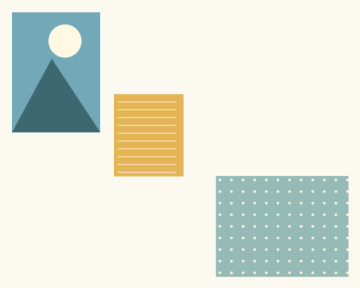
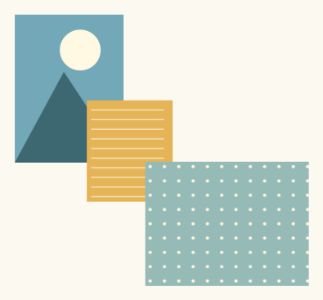
Align postmark and diagonal lesson schematics

Changed region(s): [[0.031, 0.0312, 0.9907, 0.9688], [0.774, 0.6875, 0.8669, 0.75], [0.6811, 0.6875, 0.743, 0.75]]

diff --git a/src/creation-library/title.js b/src/creation-library/title.js
@@ -39,6 +39,7 @@ export function compileTitle(p,{widthExplicit=false}={}){
  const colors=p.colors||['#3D6871','#E6B45E','#F1E8D5'],fontSize=p.style?.fontSizePt??p.fontSizePt??18,accent=colors[1]||colors[0],ground=colors[2]||'#F1E8D5';
  let width=p.widthMm||70;
  if(p.treatment==='stack'&&!widthExplicit)width=Math.max(28,Math.min(70,extent(p.text,fontSize)/2+10));
+ if(p.treatment==='seal'&&!widthExplicit)width=Math.max(34,Math.min(70,extent(p.text,fontSize)+16));
  if(p.treatment==='vertical')width=Math.max(16,fontSize*pt+10);
  if(width<=10)throw Error('标题宽度须大于 10 mm');
  const style={fontFamily:p.fontFamily||'Xiaolai',fontSizePt:fontSize,color:colors[0]};
@@ -82,14 +83,21 @@ export function compileTitle(p,{widthExplicit=false}={}){
    if(widthExplicit&&needed>width)throw Error('弧形标题文字超出宽度；增大 widthMm 或减小 fontSizePt，不会自动丢字');
    width=Math.max(width,needed);style.curveHeightMm=p.curveHeightMm??style.curveHeightMm??5;
   }
-  const t=addText(content,5,5,width-10,style);
+  const t=addText(content,5,5,width-10,p.treatment==='seal'?{...style,textAlign:'center'}:style);
+  if(p.treatment==='seal'){
+   if(t.inkHeight>width-10)throw Error('邮戳圈记文字超出圆形范围；缩短标签或增大 widthMm');
+   const dy=Math.max(0,(width-t.inkHeight)/2-t.y);
+   t.y+=dy;t.op.place.at[1]+=dy;
+   for(const line of t.inkLines)line.y+=dy;
+  }
   if(['highlight','circle'].includes(p.treatment))notes.push('未给强调词或主词组，本次保留普通标题；请指定 emphasis 或 runs 中的 primary。');
   if(p.treatment==='stagger')notes.push('未提供词组，保留连续读序；不自动随机旋转每字。');
  }
  const mainTexts=texts.slice();
  let height=Math.max(p.heightMm||14,...texts.map(t=>t.y+t.h+5));
- if(p.caption){const y=Math.max(...texts.map(t=>t.y+t.inkHeight))+3;const t=addText(p.caption,5,y,width-10,{fontFamily:style.fontFamily,fontSizePt:Math.min(12,fontSize*.65),color:colors[0]});height=t.y+t.h+5;}
- if(['label','bubble','seal'].includes(p.treatment))background.unshift(shape(['bubble','seal'].includes(p.treatment)?'ellipse':'rect',0,0,width,height,{fill:ground,...(p.treatment==='seal'?{stroke:colors[0],strokeWidthMm:.4}:{})}));
+ if(p.treatment==='seal')height=Math.max(height,width);
+ if(p.caption){const y=p.treatment==='seal'?width+3:Math.max(...texts.map(t=>t.y+t.inkHeight))+3;const t=addText(p.caption,5,y,width-10,{fontFamily:style.fontFamily,fontSizePt:Math.min(12,fontSize*.65),color:colors[0]});height=t.y+t.h+5;}
+ if(['label','bubble','seal'].includes(p.treatment))background.unshift(shape(['bubble','seal'].includes(p.treatment)?'ellipse':'rect',0,0,width,p.treatment==='seal'?width:height,{fill:ground,...(p.treatment==='seal'?{stroke:colors[0],strokeWidthMm:.4}:{})}));
  if(p.treatment==='underline'){
   const last=mainTexts.at(-1),bottom=last.y+last.inkHeight;
   const sameRow=last.lineCount===1?mainTexts.filter(t=>t.lineCount===1&&Math.abs(t.y-last.y)<1):[last];

diff --git a/tests/creation-library.test.js b/tests/creation-library.test.js
@@ -90,6 +90,30 @@ test('underline follows the final wrapped line and remains valid when the captio
  assert.ok(underline.place.at.every(Number.isFinite));
  assert.equal(apply(await document([]),compiled.operations,[]).changed,true);
 });
+test('postmark lesson renders a circular editable label, with caption outside the ring',()=>{
+ const result=compileTechnique({methodId:'vintage-postmark',parameters:{id:'seal',text:'旅途',caption:'小记'}});
+ const children=result.operations[0].children,ring=children.find(op=>op.op==='graphic.add'),label=children.find(op=>op.op==='text.add'&&op.content==='旅途'),caption=children.find(op=>op.op==='text.add'&&op.content==='小记');
+ assert.equal(ring.geometry.kind,'ellipse');assert.equal(ring.size.width,ring.size.height);
+ assert.equal(label.style.textAlign,'center');assert.ok(label.place.at[1]>ring.size.height*.2);
+ assert.ok(caption.place.at[1]>ring.size.height);
+ assert.throws(()=>compileTechnique({methodId:'vintage-postmark',parameters:{id:'seal',text:'这一行长到放不进圆里',widthMm:18}}),/超出圆形范围/);
+});
+test('diagonal layer lesson forms a connected cluster without scaling real materials',()=>{
+ const compiled=compileTechnique({methodId:'layered-diagonal',parameters:{id:'layers',aliases:['m1','m2','m3']},materials:exampleMaterials});
+ const children=compiled.operations[0].children.filter(op=>op.op==='material.add');
+ for(let i=1;i<children.length;i++){
+  const a=exampleMaterials.find(asset=>asset.alias===children[i-1].asset),b=exampleMaterials.find(asset=>asset.alias===children[i].asset);
+  const dx=Math.abs(children[i].place.at[0]-children[i-1].place.at[0]),dy=Math.abs(children[i].place.at[1]-children[i-1].place.at[1]);
+  assert.ok(dx<(a.physicalWidthMM+b.physicalWidthMM)/2);
+  assert.ok(dy<(a.physicalHeightMM+b.physicalHeightMM)/2);
+  assert.equal(children[i].size,undefined);
+ }
+});
+test('quiet pair stays spaced apart while layered diagonal is connected',()=>{
+ const quiet=compileTechnique({methodId:'quiet-pair',parameters:{id:'quiet',aliases:['m1','m2']},materials:exampleMaterials}).operations[0].children;
+ const a=exampleMaterials[0],b=exampleMaterials[1],dx=Math.abs(quiet[1].place.at[0]-quiet[0].place.at[0]);
+ assert.ok(dx>=(a.physicalWidthMM+b.physicalWidthMM)/2);
+});
 test('template ranking is deterministic and does not mutate real material dimensions',()=>{
  const input=structuredClone(exampleMaterials),args={materials:input,paper:{width:148,height:210},limit:5};
  assert.deepEqual(rankTemplates(args),rankTemplates(args));assert.deepEqual(input,exampleMaterials);

diff --git a/src/creation-library/techniques.js b/src/creation-library/techniques.js
@@ -107,7 +107,8 @@ export function compileTechnique({methodId,parameters,materials=[]}){
    if(p.arrangement==='stagger'){x=previous?previous.x+rows[i-1].w+gap:0;y=i%2?maxH*.2:0;}
    if(p.arrangement==='magazine'){x=i?rows[0].w+gap:0;y=i===0?0:i===1?rows[0].h*.12:previous.y+rows[i-1].h+gap;}
    if(p.arrangement==='stack'){x=i*gap;y=i*gap;}
-   if(p.arrangement==='diagonal'){x=i*(maxW*.65+gap);y=i*(maxH*.55+gap);}
+   if(p.arrangement==='diagonal'&&previous){x=previous.x+rows[i-1].w*.58+gap*.45;y=previous.y+rows[i-1].h*.52+gap*.45;}
+   if(p.arrangement==='diagonal-open'){x=i*(maxW*.65+gap);y=i*(maxH*.55+gap);}
    if(p.arrangement==='triangle'){x=(i%3===1?maxW+gap:i%3===2?(maxW+gap)/2:0);y=Math.floor(i/3)*(maxH*2+gap)+(i%3===2?maxH+gap:0);}
    if(p.arrangement==='s-route'){x=(Math.sin(i*1.5)+1)*maxW*.4;y=i*(maxH*.75+gap);}
    positions.push({x,y});right=Math.max(right,x+a.w);bottom=Math.max(bottom,y+a.h);

diff --git a/docs/CREATION_LIBRARY_AUDIT.md b/docs/CREATION_LIBRARY_AUDIT.md
@@ -1,6 +1,6 @@
 # 创作教材完成度审计
 
-目标：按用户最新要求，暂时保留现有 78 个模板并完善其质量与解析；每个具体用法都有介绍、示意、灵活工具和验证；可从空白页依输入元素重建模板。当前未完成。
+目标：保留现有 78 个模板；按用户最新要求，暂停解析尚未完成的模板。继续核对已整理方法的介绍、示意、工具和验证。整体目标当前未完成。
 
 当前记录状态：67 个有逐项描述，其中 39 个标记为结构已核对、28 个仍保留待视觉复核状态；另外 11 个只有主要结构，暂不进入匹配和调用，其中 1 个复杂模板暂缓。描述数量不等于全部质量验收完成。
 
@@ -12,7 +12,7 @@
 | 示意与可执行工具一致 | build-creation-library-illustrations.mjs 运行真实 Scene，manifest 校验 72 张方法图；查看全表及标题细图 | 当前方法已生成并查看；需要真实创作复验 |
 | 结构参数可修改 | 图形直接使用 geometry.options；标题共用 style、runs、emphasis；编辑与导出共用绘制 | 已实现并有针对测试 |
 | 不臃肿、按需检索 | read_skill 每页 8 项；统一 creation_recipe；题目目录预载而非所有图片常驻 | 保持 |
-| 模板数量与结构 | templates.json 为 78 个独立来源面板 | 用户确认数量暂时足够，不再增加；逐项质量验收继续 |
+| 模板数量与结构 | templates.json 为 78 个独立来源面板 | 用户确认数量暂时足够，后续模板解析已暂停 |
 | 每个模板从空白页完整重建 | compiler.js 已支持数字图形、配色、文字样式、显式层级和省略；67 个模板具有逐项元素与完整合成夹具；全部 78 张图改用真实命令渲染 | 未完成：其余 11 个仍只有主要结构（其中 ac-26 已暂缓）；现有模板的字体笔画、手绘轮廓等细节仍与原图有近似差异，不能当作像素复刻 |
 | 模板风格多样且高质量 | 八篇源教程的 78 个结构；当前几何匹配有绝对尺寸和成对尺寸约束 | 不能仅凭标签/数量证明；需完善现有解析并逐图审阅 |
 | 真实素材实例 | 既有 14 件材料的两次 DeepSeek 私有验收，新增二十张本机模板实例；非每模板实例 | 待补，不能以合成图代替真实案例；新增二十张未调用模型 |
@@ -176,3 +176,10 @@
 - 当前 78 个模板中，67 个有逐项描述，11 个结构草稿暂缓匹配与直接套用；其中 39 个结构已核对、28 个待进一步视觉复核。真实素材会与部分示意书写区接近，复杂叠压仍需在模型视觉检查或人工编辑中处理，不能从显式绑定测试推出任意素材都能自动避让。
 
 本轮完整回归：1953 项通过、1 项跳过、0 失败；UI smoke、React 页面流程及 7 视口路由通过。最初在受限执行环境运行时，七个需要启动子进程的测试文件遇到 `spawnSync EPERM`；改用允许子进程的执行环境后，完整门禁通过。没有进行实体设备或远程模型自主创作验收，也没有合并或部署。
+
+## 方法示意与工具一致性复核
+
+- 用户要求暂停后续模板解析，本轮没有增加或解析模板；总数仍为 78，详细描述仍为 67，另外 11 个结构草稿保持暂缓状态。
+- “邮戳圈记”原示意被通用标题工具拉成长椭圆，和圆形印记的介绍不符。现在按短标签内容给圆形范围，文字居中；可选注释放在圈外，过长文字会明确报错。已查看重新生成的圆形示意。
+- “对角层次”原先三件素材彼此分离，像等距阶梯。现在按前一件的真实尺寸逐件接触和叠放；“留白双件”继续使用分开的对角排布，两种方法不会互相改变。已查看重新生成的叠放示意，真实素材没有缩放。
+- 完整测试 1956 项通过、1 项跳过、0 失败；UI smoke、React 流程及 7 视口路由通过。150 张示意图清单保持一致，只有上述两张方法图发生变化。本轮没有实体设备或远程模型创作验收，也没有合并或部署。
